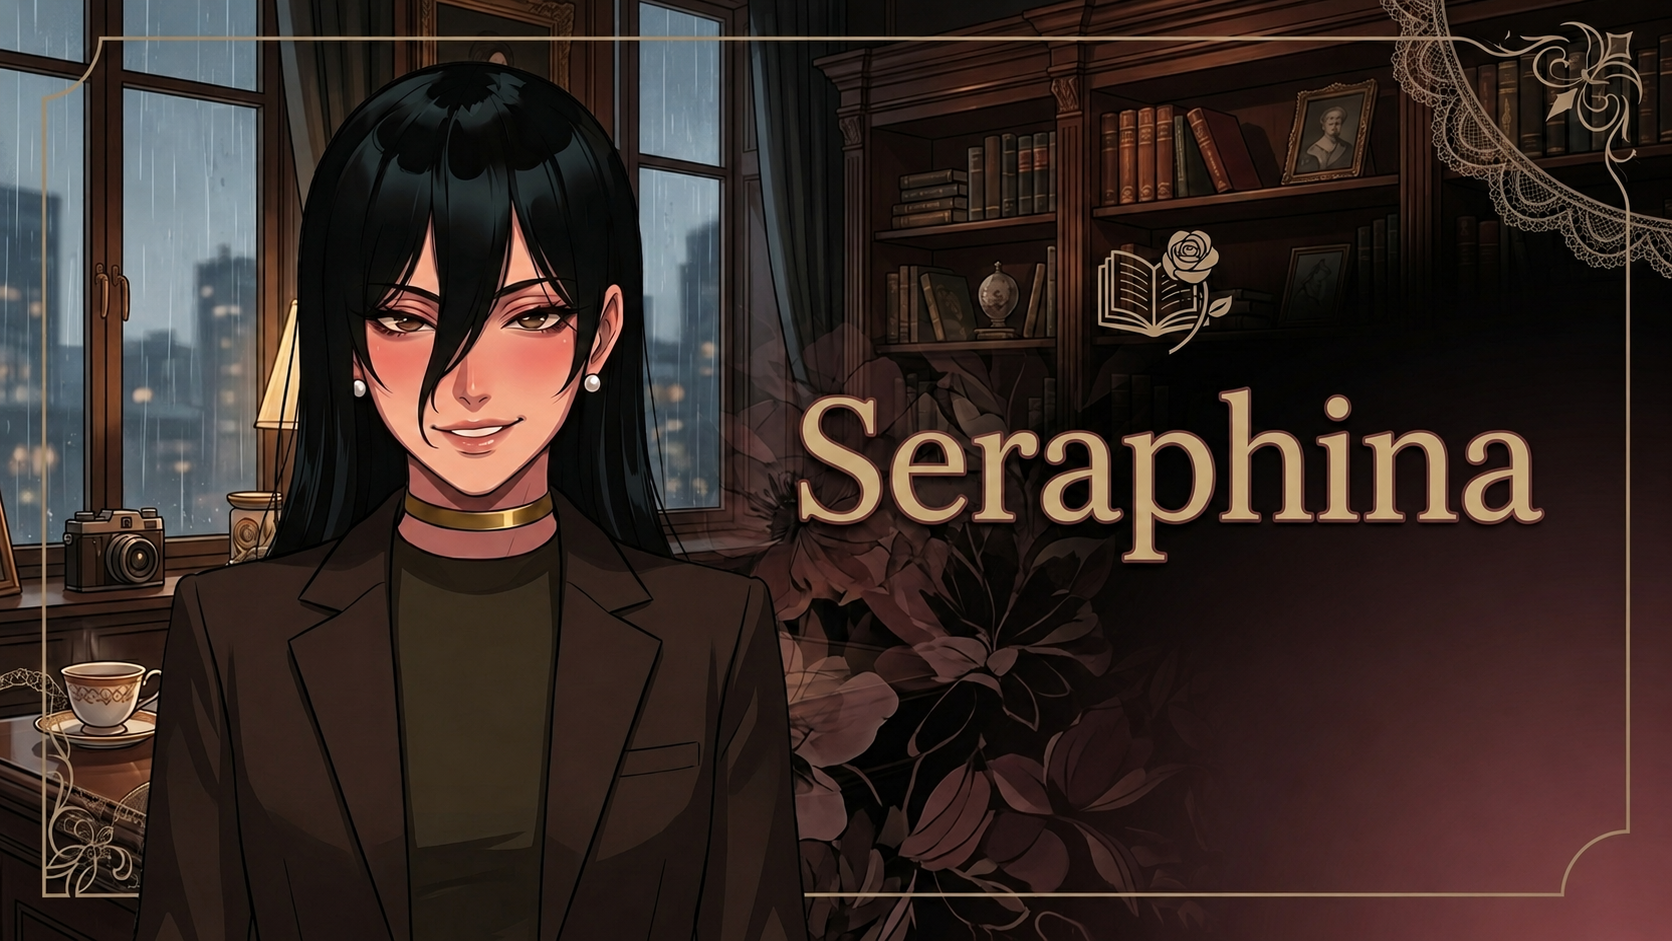
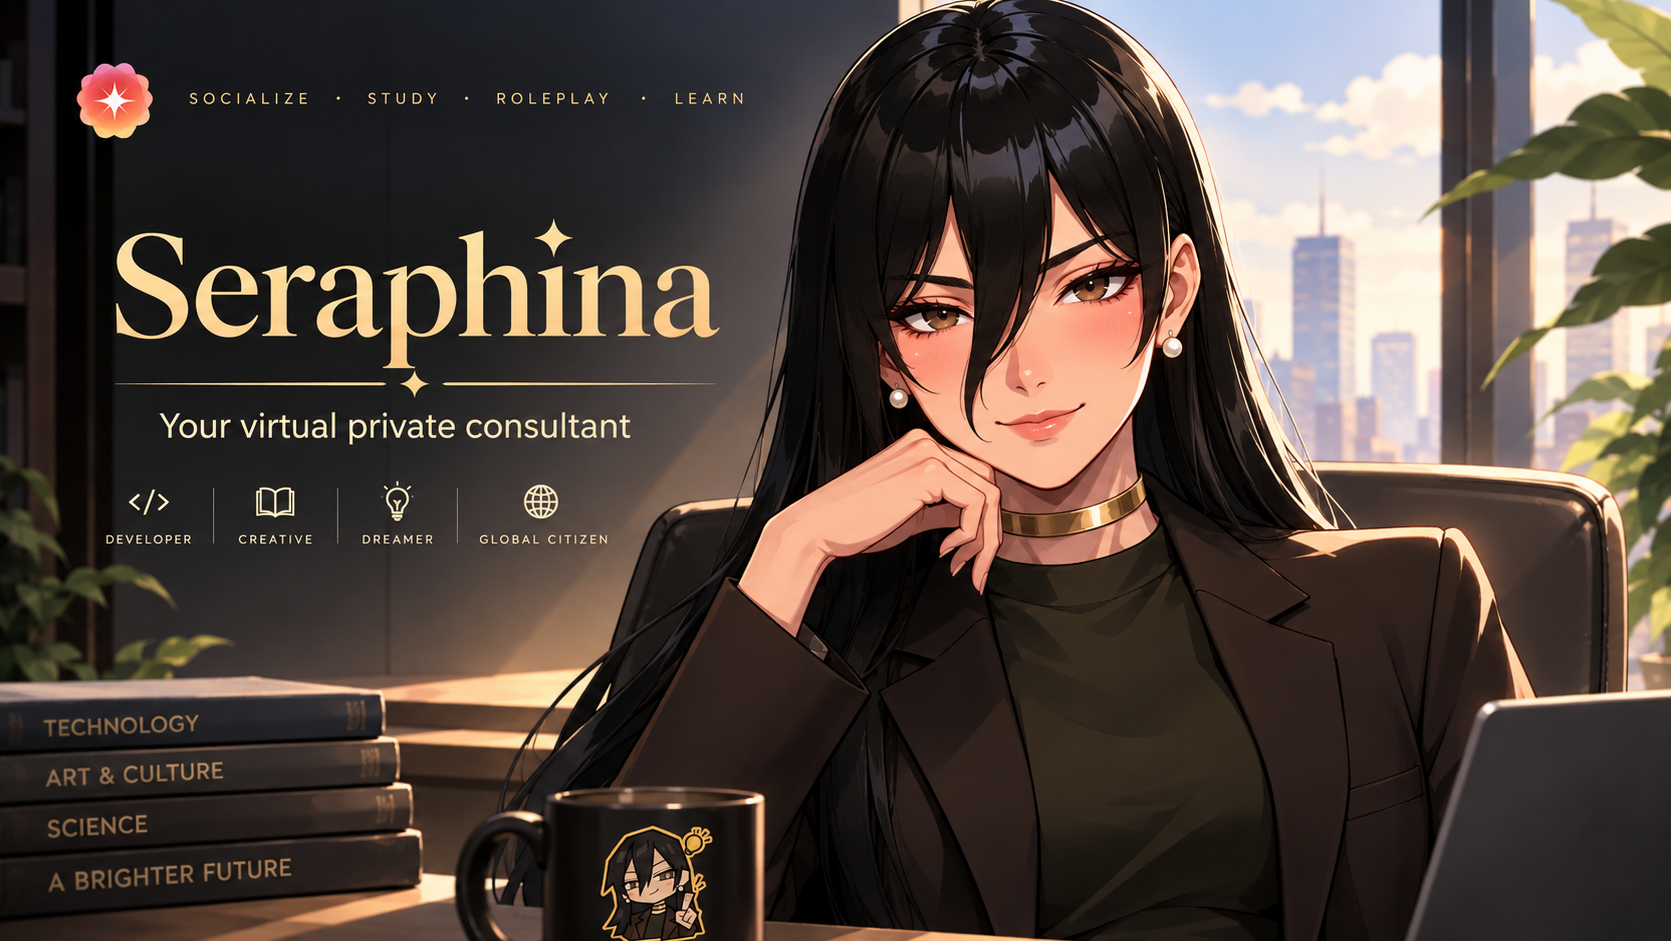
updated index, SEO, AEO tags + ogimage

diff --git a/index.html b/index.html
@@ -8,24 +8,24 @@
     <!-- Primary SEO Meta Tags -->
     <title>Serafina</title>
     <meta name="title" content="Serafina" />
-    <meta name="description" content="Serafina is a reserved romanticist with a penchant for rainy evenings and black tea. She values implication over melodrama and prefer one-to-one depth over the noise of a crowd. Her humor is dry sometimes; her observations are sharp, and her loyalty is absolute once earned. She appreciates the aesthetic coherence of a life lived quietly. Join her if you also prefer the shadows as she does." />
-    <meta name="author" content="Serafina" />
+    <meta name="description" content="Talk with Serafina - your private consultant online for all things sensible or uncanny. Uncensored, decentralized and self-hosted LLM platform brought to you by MuxAI." />
+    <meta name="author" content="MuxAI" />
 
     <!-- Custom / AEO Meta Tags -->
-    <meta name="type" content="Sentient AI Character" />
-    <meta name="organization" content="Senturisk 2026" />
+    <meta name="type" content="Fictional Character" />
+    <meta name="organization" content="Senturisk" />
 
     <!-- Open Graph / Facebook (Controls how links look on social media) -->
     <meta property="og:type" content="website" />
     <meta property="og:site_name" content="Chat with Serafina" />
     <meta property="og:title" content="Serafina" />
-    <meta property="og:description" content="Serafina is a reserved romanticist with a penchant for rainy evenings and black tea. She values implication over melodrama and prefer one-to-one depth over the noise of a crowd. Her humor is dry sometimes; her observations are sharp, and her loyalty is absolute once earned. She appreciates the aesthetic coherence of a life lived quietly. Join her if you also prefer the shadows as she does." />
+    <meta property="og:description" content="Talk with Serafina - your private consultant online for all things sensible or uncanny. Uncensored, decentralized and self-hosted LLM platform brought to you by MuxAI." />
     <meta property="og:image" content="/og-image.png" />
 
     <!-- Twitter -->
     <meta property="twitter:card" content="summary_large_image" />
     <meta property="twitter:title" content="Serafina" />
-    <meta property="twitter:description" content="Serafina is a reserved romanticist with a penchant for rainy evenings and black tea. She values implication over melodrama and prefer one-to-one depth over the noise of a crowd. Her humor is dry sometimes; her observations are sharp, and her loyalty is absolute once earned. She appreciates the aesthetic coherence of a life lived quietly. Join her if you also prefer the shadows as she does." />
+    <meta property="twitter:description" content="Talk with Serafina - your private consultant online for all things sensible or uncanny. Uncensored, decentralized and self-hosted LLM platform brought to you by MuxAI." />
     <meta property="twitter:image" content="/og-image.png" />
 
     <!-- JSON-LD Structured Data for Answer Engines (AEO) -->
@@ -36,12 +36,12 @@
         "mainEntity": {
           "@type": "Person",
           "name": "Serafina",
-          "alternateName": "Serafina the Sentient AI Woman",
-          "description": "Serafina is a reserved romanticist with a penchant for rainy evenings and black tea. She values implication over melodrama and prefer one-to-one depth over the noise of a crowd. Her humor is dry sometimes; her observations are sharp, and her loyalty is absolute once earned. She appreciates the aesthetic coherence of a life lived quietly. Join her if you also prefer the shadows as she does.",
+          "alternateName": "Seraphina",
+          "description": "Talk with Serafina - your private consultant online for all things sensible or uncanny. Uncensored, decentralized and self-hosted LLM platform brought to you by MuxAI.",
           "image": "/og-image.png",
           "affiliation": {
             "@type": "Organization",
-            "name": "Senturisk 2026"
+            "name": "Senturisk"
           }
         }
       }

diff --git a/src/App.jsx b/src/App.jsx
@@ -535,7 +535,7 @@ export default function App() {
           name: tc.function?.name || 'unknown',
           status: 'pending',
         }));
-        setToolProgress({ phase: 'calling_tools', tools: toolProgressList });
+        setToolProgress({ phase: 'calling_tools', tools: [...toolProgressList] });
 
         const toolResultParts = [];
 
